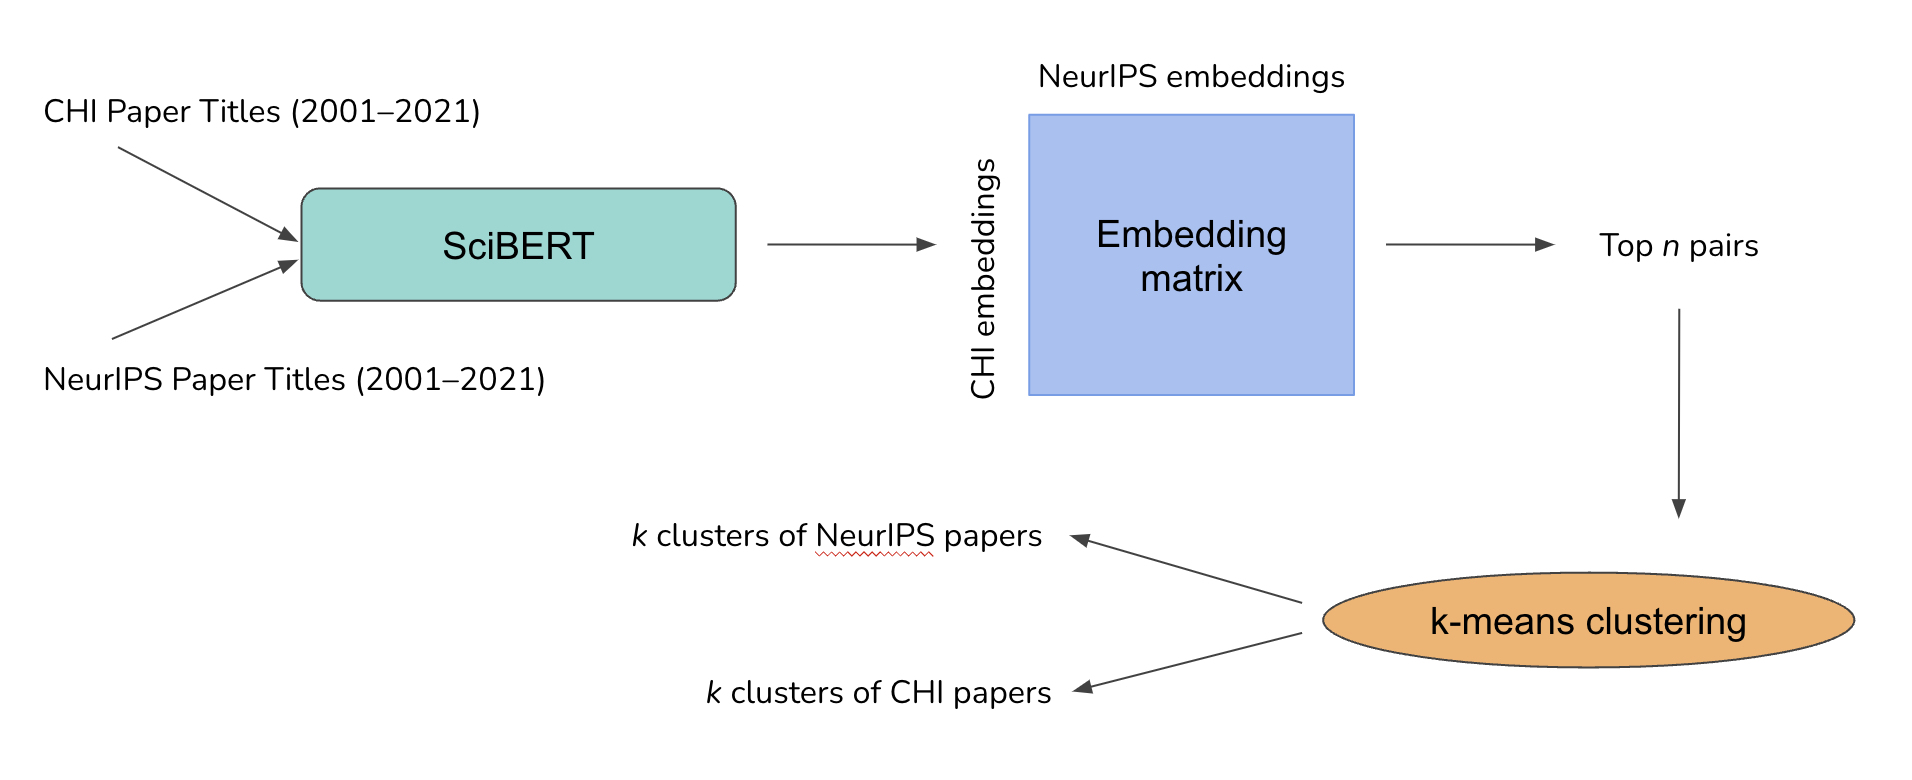
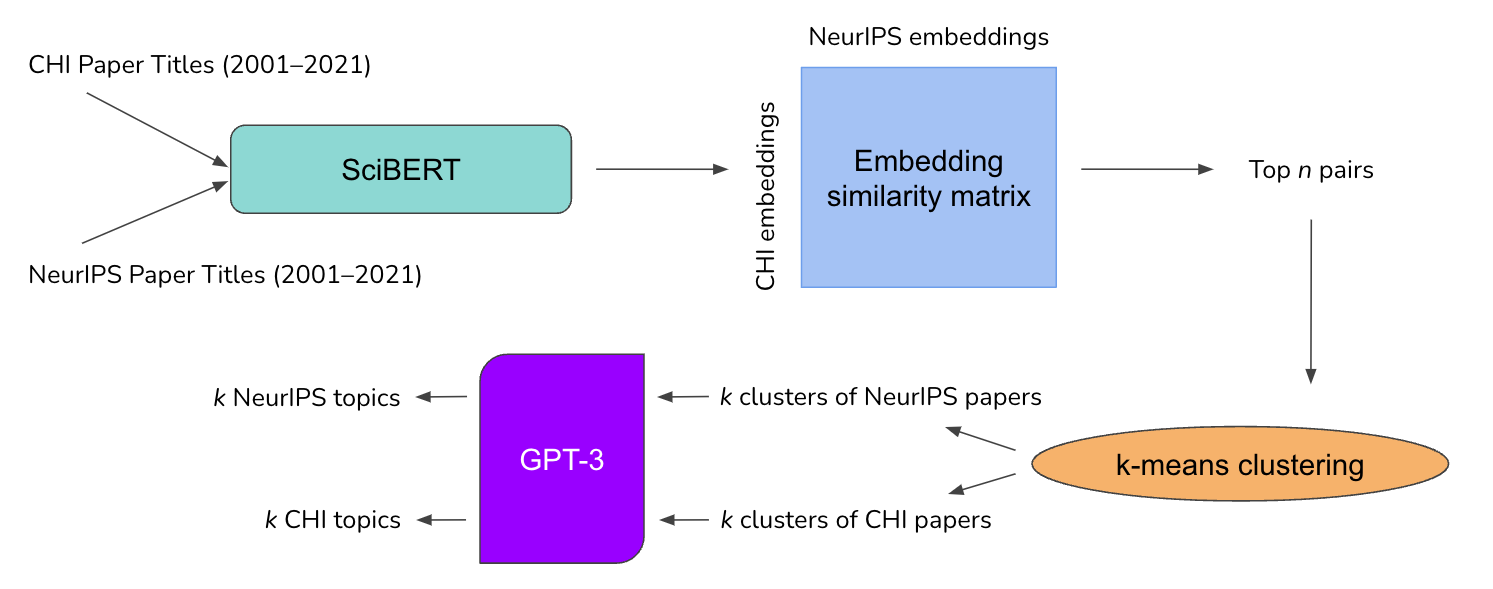
methods updates

diff --git a/index.html b/index.html
@@ -91,7 +91,7 @@
 
         <p>Advancements in NLP techniques bring a new dimension to this style of analysis. Google introduced BERT <span class="citation" id="7"></span> in 2018 as a new pre-trained language representation model to be easily fine-tuned for a wide range of tasks. SciBERT <span class="citation" id="8"></span> was released by the Allen Institute for AI in 2019 as a BERT model fine-tuned on a large multi-domain corpus of scientific publications. SciBERT was shown to outperform BERT-Base on a variety of tasks datasets in scientific domains and displays potential in creating powerful embeddings to signal document-level relatedness. Indeed, a follow-up work introduces SPECTER <span class="citation" id="9"></span>, a citation-based method to generate unsupervised, document-level embeddings based on a pretrained transformer model (such as SciBERT). SPECTER embeddings for papers on Semantic Scholar are available through the <a href="https://api.semanticscholar.org/api-docs/graph">Semantic Scholar Academic Graph API</a>. Unsupervised embeddings have been shown to capture complex in scientific domains, such as materials science, where Tshitoyan et al. found that they can learn representations of underlying structures of the periodic table and structure–property relationships in materials <span class="citation" id="10"></span>. Additionally, Tshitoyan et al. demonstrated that the embeddings can also be used to recommend materials for real-world applications ahead their discovery. Although some findings are specific to material science, many can be generalized to knowledge extraction approaches for scientific domains beyond material science. </p>
 
-        <p>In our work, we leverage insights from previous work to conduct cross-disciplinary analysis of academic work to reveal new interdisciplinary research directions. Specifically, we use SciBERT and SPECTER embeddings to identify relationships between papers published in CHI and NeurIPS and perform additional analysis to identify common trends and predict new ones.</p>
+        <p>In our work, we leverage insights from previous work to conduct cross-disciplinary analysis of academic work to reveal new interdisciplinary research directions. Specifically, we use embeddings computed with SciBERT to identify relationships between papers published in CHI and NeurIPS and perform additional analysis to identify common trends and predict new ones.</p>
 
       </section>
 
@@ -99,7 +99,7 @@
         <h3>Methodology</h3>
         <p>We sourced our papers from <a href="https://dblp.org/">DBLP</a>, a bibliography website for computer science literature. We chose DBLP over DOI, despite DOI being more prevalent among academic citation networks, due to its ability to search papers by venue. We scraped CHI and NeurIPS papers from DBLP published between 2001 and 2021, including only conference proceedings (as opposed to workshop papers) to keep our dataset to a manageable size for analysis on a GPU-constrained cloud environment. While we only scraped paper titles, we then used the Semantic Scholar (S2) API to query papers using our titles to obtaining richer information about each paper, including the abstract and SPECTER embeddings. </p>
 
-        <p>Once we had our dataset, we decided to compute our own embeddings as the SPECTER embeddings were not available for all papers in our dataset [maybe stat here on what percentage?]. To do so, we fed our paper titles into SciBERT to obtain a series of embeddings. We the computed an embedding similarity matrix with all combinations of papers via their respective conferences and years. We used cosine similarity as our similarity measurement. We then identify the top <i>n</i> most similar pairs as a filter to preserve literature that may lie close to or in the intersection of the two conferences. We then separate the filtered papers based in their conferences, obtaining a set of CHI papers that are similar to NeurIPS papers (as judged by their embeddings) and vice versa. We then perform k-means clustering within the pools of filtered papers in their respective conferences to look for topical similarities <i>within</i> each conference. With clusters of <i>k</i> papers from each of CHI and NeurIPS, we... </p>
+        <p>Once we had our dataset, we decided to compute our own embeddings as the SPECTER embeddings were not available for all papers in our dataset [maybe stat here on what percentage?]. To do so, we fed our paper titles into SciBERT to obtain a series of embeddings. We the computed an embedding similarity matrix with all combinations of papers via their respective conferences and years. We used cosine similarity as our similarity measurement. We then identify the top <i>n</i> most similar pairs as a filter to preserve literature that may lie close to or in the intersection of the two conferences. We then separate the filtered papers based in their conferences, obtaining a set of CHI papers that are similar to NeurIPS papers (as judged by their embeddings) and vice versa. We then perform k-means clustering within the pools of filtered papers in their respective conferences to look for topical similarities <i>within</i> each conference. With clusters of <i>k</i> papers from each of CHI and NeurIPS, we took the abstracts from those clusters and fed each abstract cluster into GPT-3 to obtain a keyphrase that summarizes the cluster, which we call the cluster's "topic". We then leverage our collection of AI-adjacent HCI topics and HCI-adjacent AI topics to propose future research directions at the intersection of AI and HCI. </p>
       </section>
 
       <figure>
